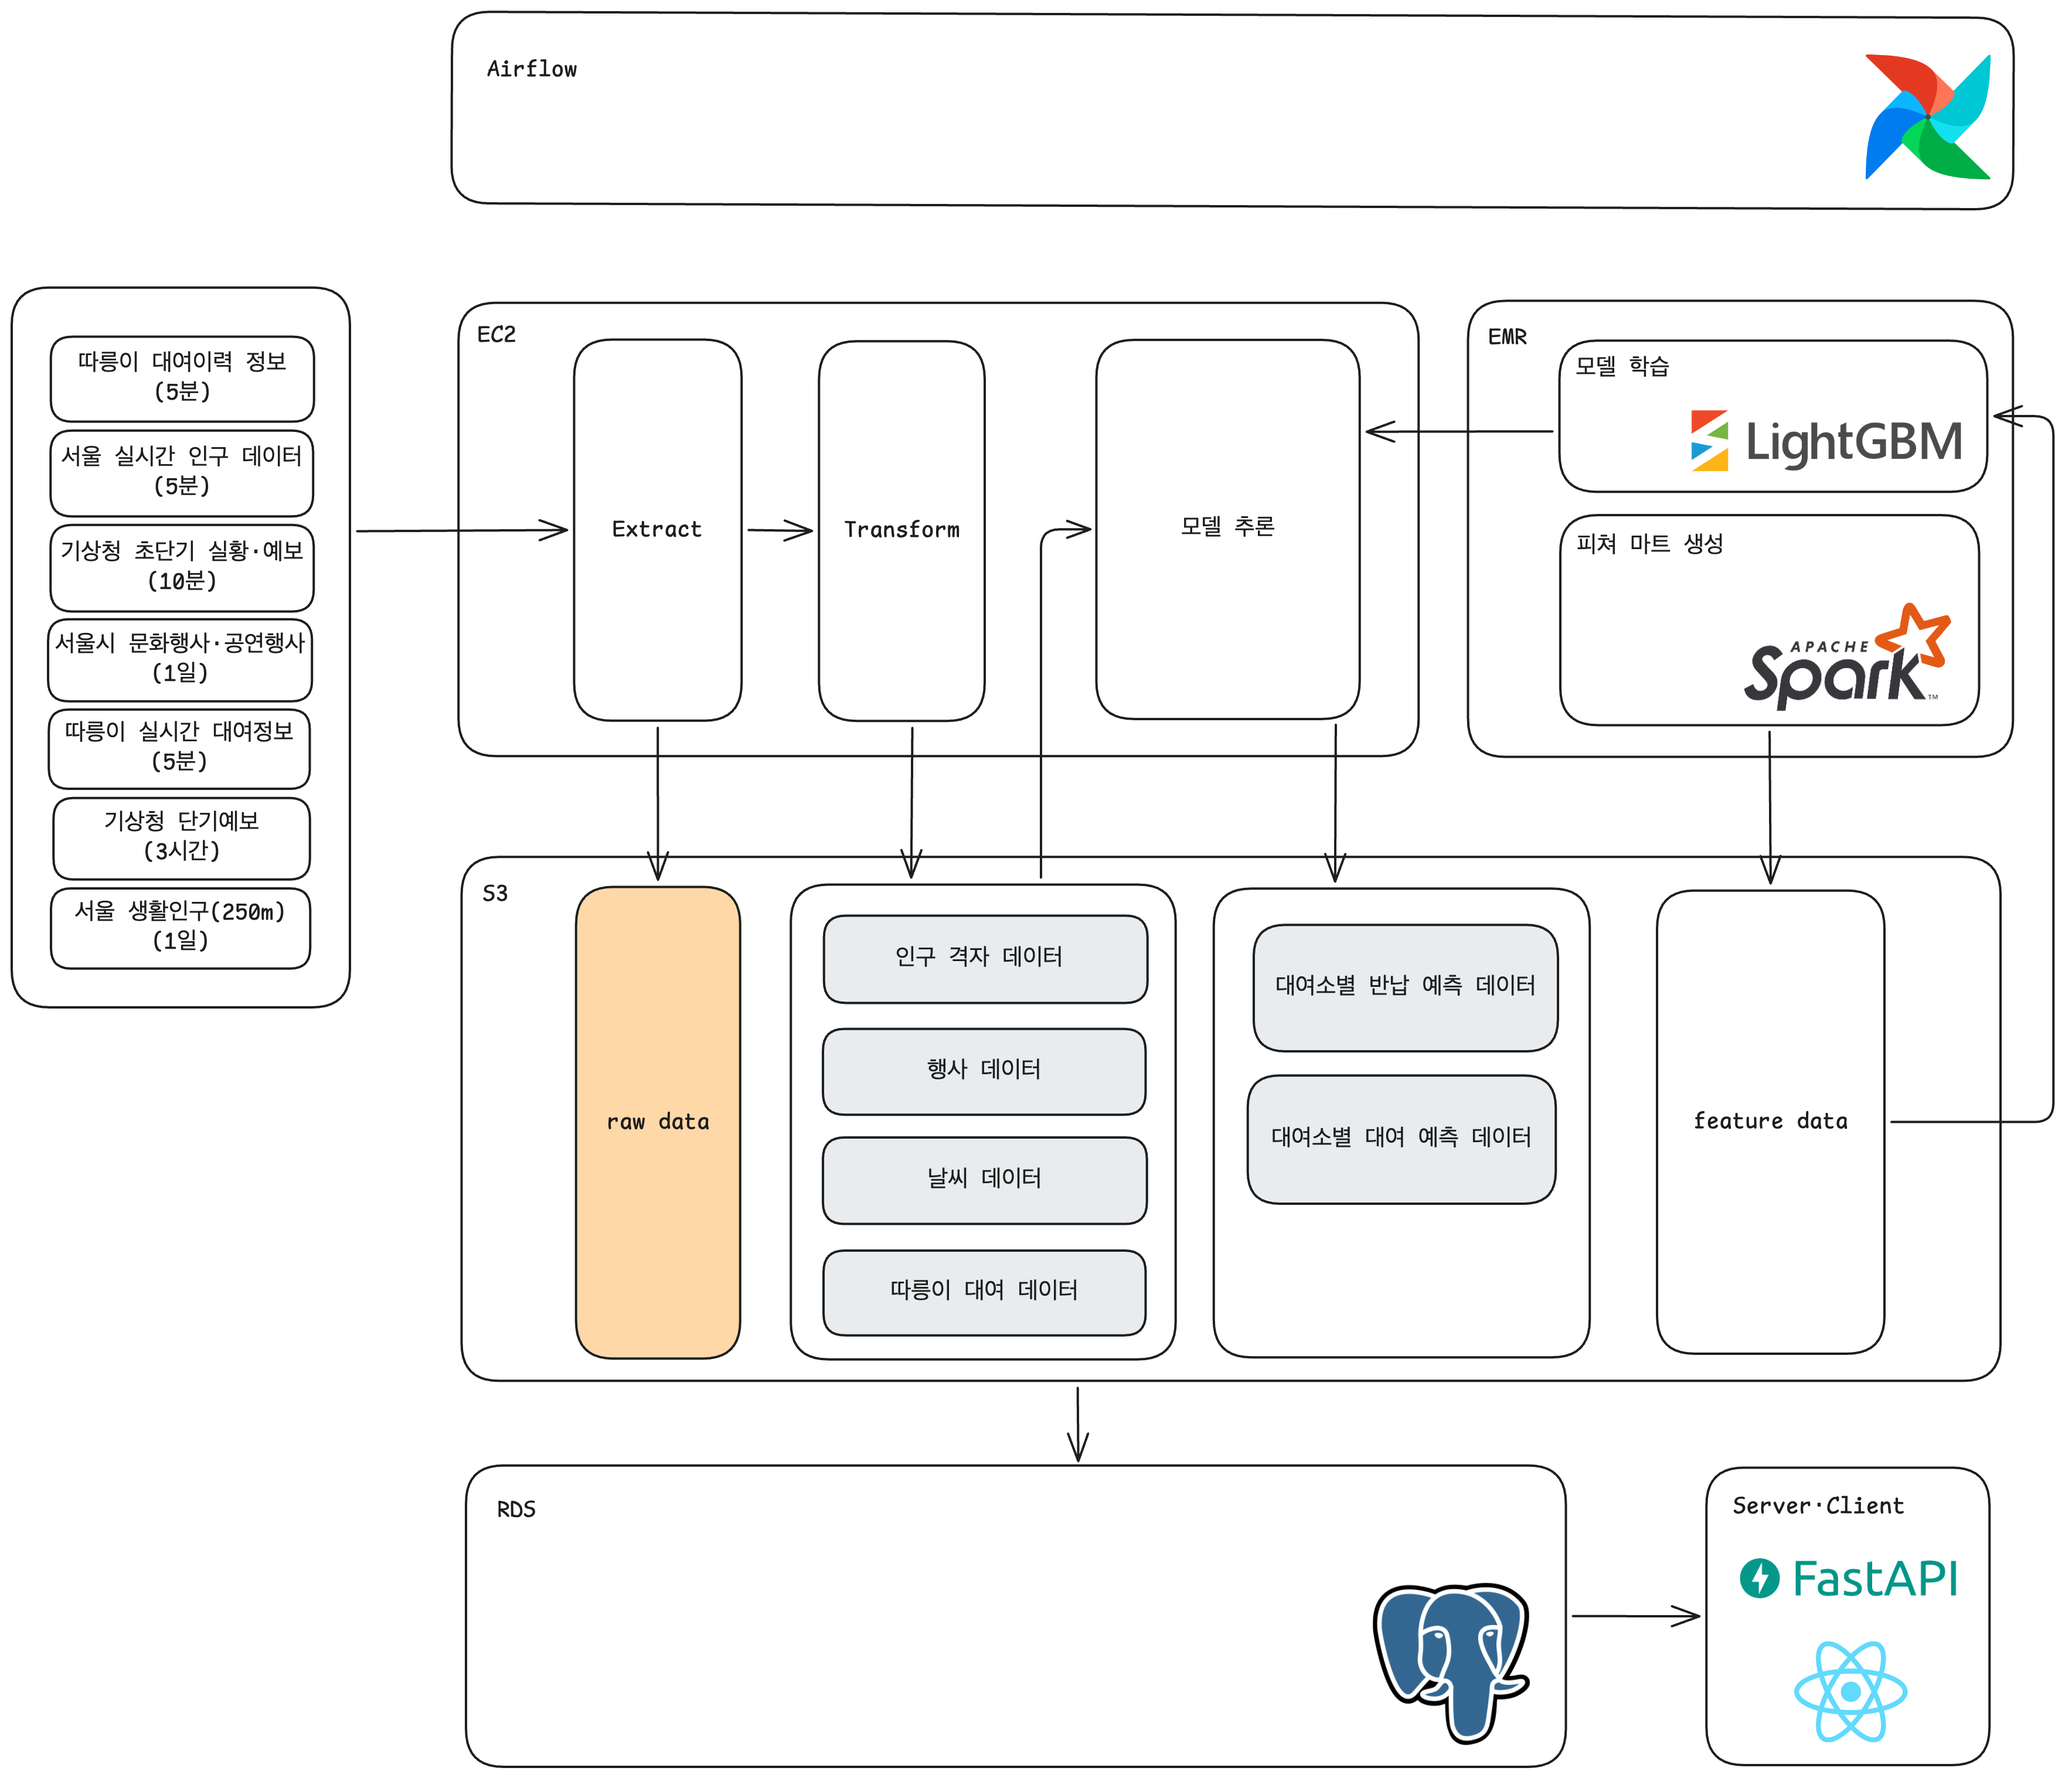
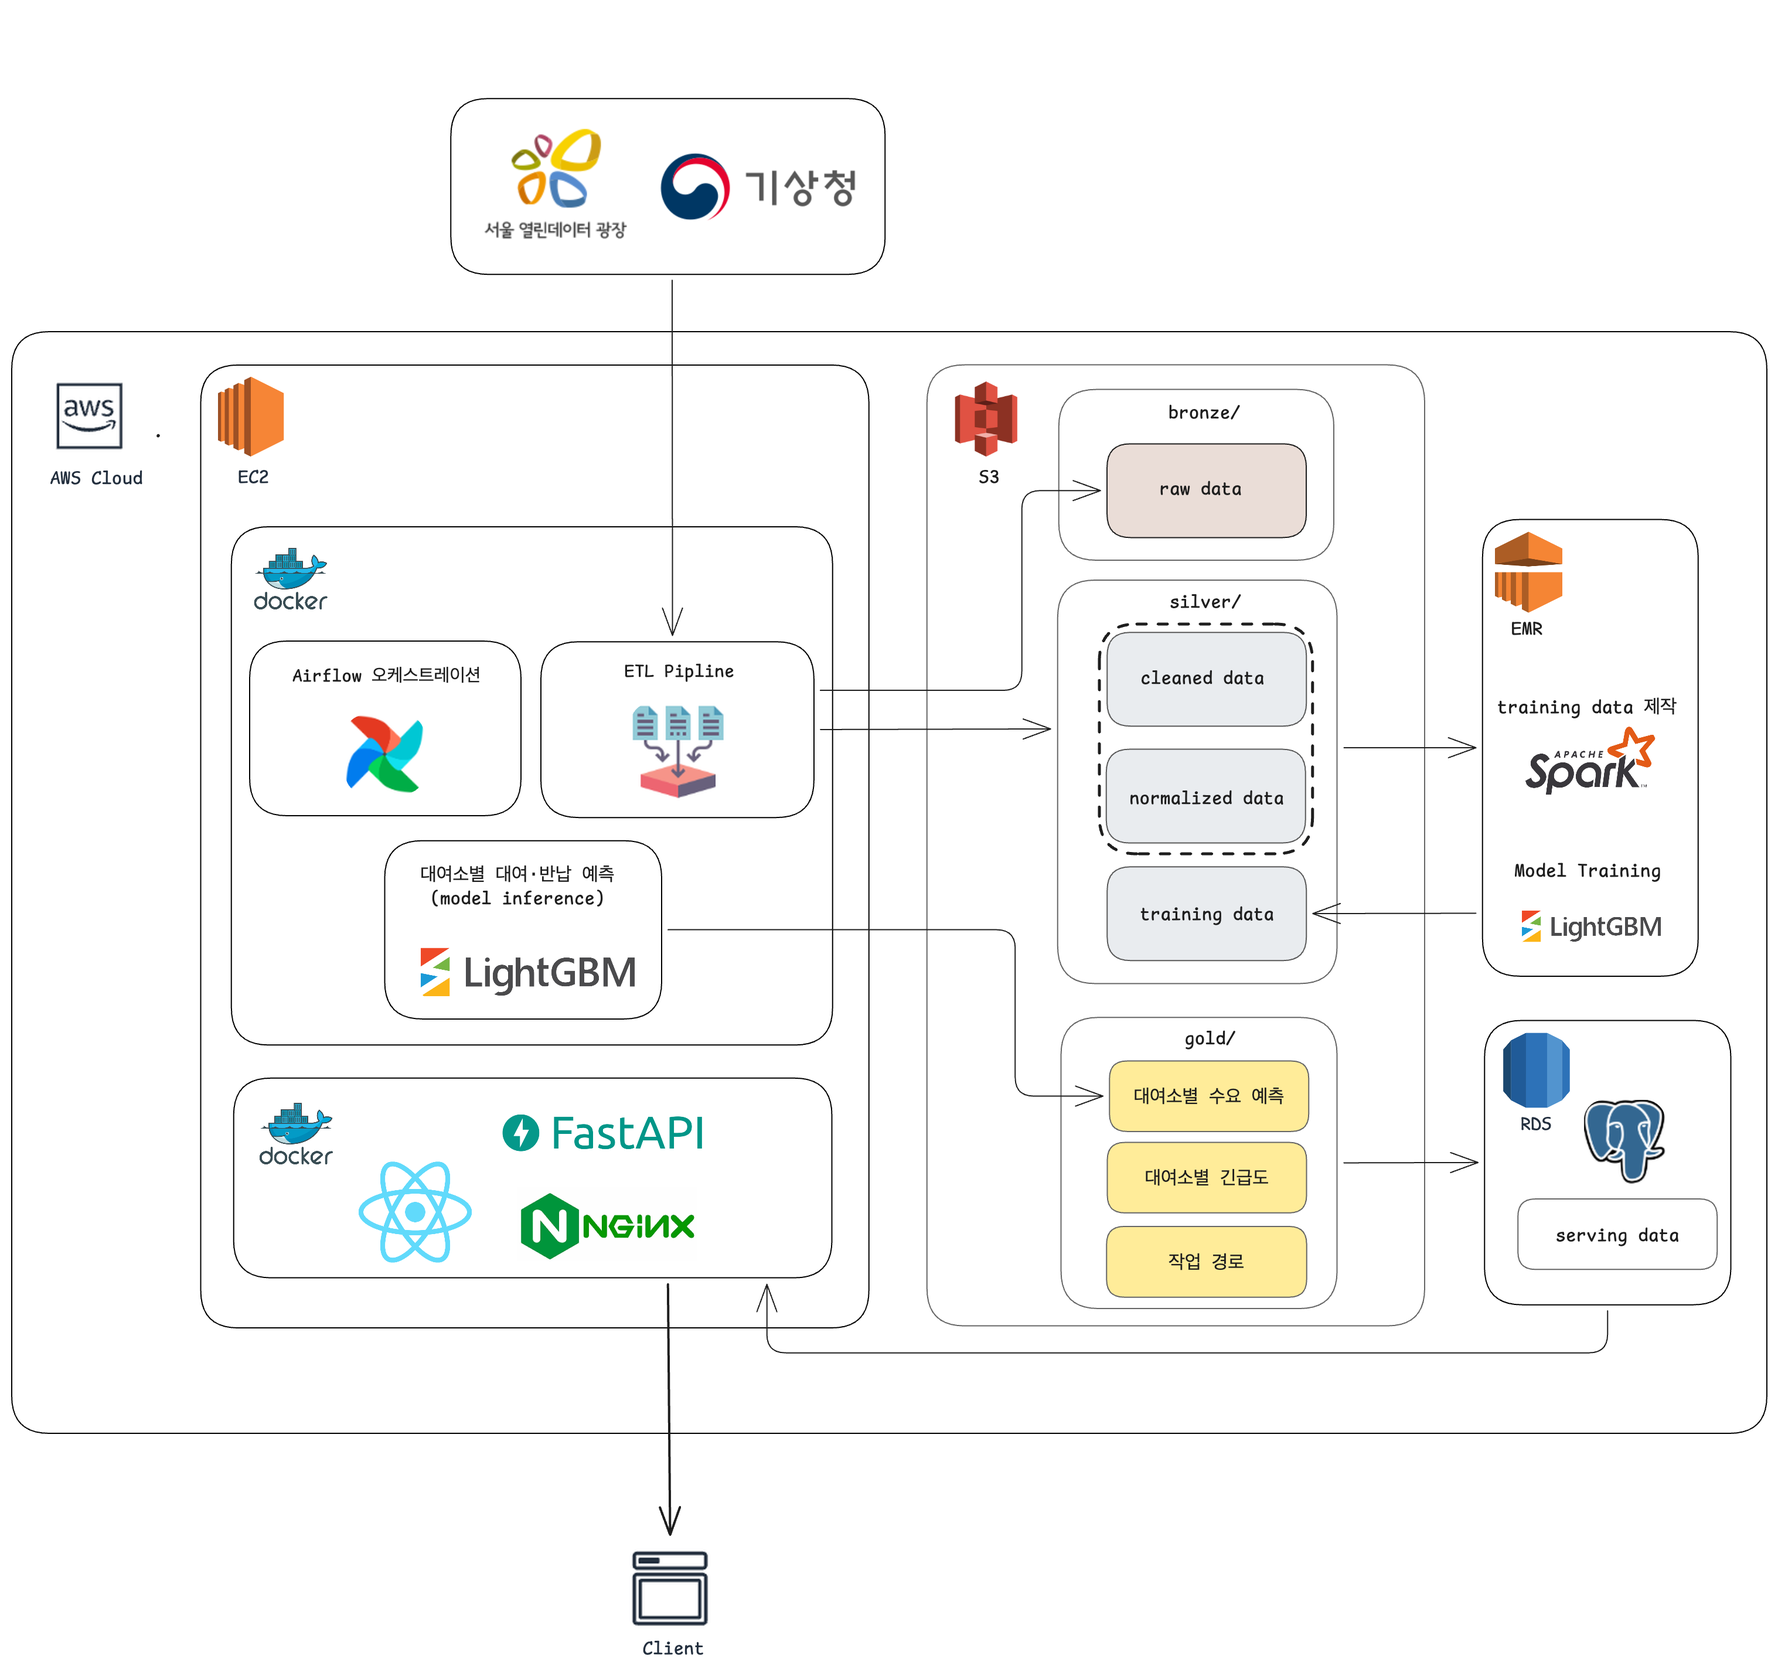
docs: 아키텍처 다이어그램 갱신 및 데이터 흐름도 추가 (#237)
* docs: 아키텍쳐 다이어그램 갱신

* docs: 데이터 흐름도 추가 및 README 반영

* chore: 모델 아티팩트를 Git 추적에서 제외

diff --git a/README.md b/README.md
@@ -140,7 +140,11 @@
 
 Airflow가 수집, 정규화, 생활인구 보정, 추론, Gold 게시와 재배치 경로 생성을 오케스트레이션합니다. 운영 환경에서는 S3와 RDS for PostgreSQL/PostGIS를 데이터 계층으로 사용하며, 특징 생성은 일회성 EMR Classic 클러스터에서, 모델 학습은 학습용 EC2에서 수행합니다. 상시 애플리케이션 EC2는 Airflow, MLflow, FastAPI와 웹 서비스를 실행합니다.
 
-## 7. 기술 스택
+### 데이터 흐름
+
+![dataflow](./dataflow.png)
+
+### 기술 스택
 
 | 영역 | 기술 |
 | --- | --- |
